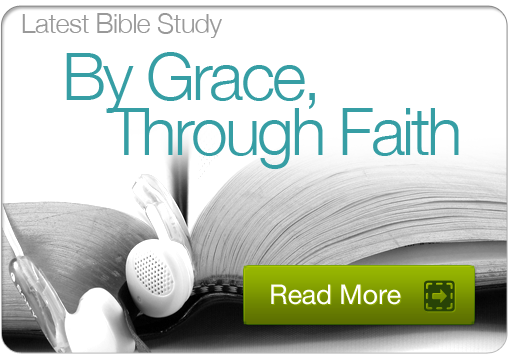
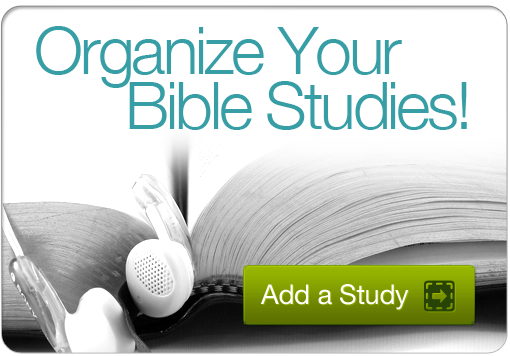
Updating home page graphic.

Changed region(s): [[0.0294, 0.0309, 0.9412, 0.4944], [0.5, 0.7725, 0.8235, 0.8652], [0.5294, 0.0618, 0.5588, 0.0927]]

diff --git a/ASD/index.html b/ASD/index.html
@@ -35,14 +35,16 @@
 			<img src="images/logo.png" id="logo" width="75%" border="0"><h1 class="hidden"></h1>
 		</div>
 		<div data-role="content" id="content">
+
 			<div id="feature">
-				<a href="#featureLesson" data-transition="slide"><img src="images/feature.png" width="100%"></a>
+				<a href="additem.html" data-transition="slide"><img src="images/feature.png" width="100%"></a>
 			</div>
+
 			
-			<ul data-role="listview" data-inset="true" data-filter="true" data-theme="c" data-dividertheme="f"> 
+			<ul data-role="listview" data-inset="true" data-theme="c" data-dividertheme="f"> 
 				<li data-role="list-divider">Adults</li>
 				<li>
-					<a href="lessons.html?cat=Adults" rel="external">
+					<a href="lessons.html?cat=Adults" rel="external" data-transition="slide">
 						<img src="images/Adults.png"  />
 						<h3>Adults</h3>
 						<p>Studies for Adult audiences.</p>
@@ -83,10 +85,6 @@
 					</a>
 				</li>
 			</ul>
-			<div >
-				<a href="additem.html"  id="addNew" data-icon="plus" data-role="button" data-theme="f"  rel="external">Add New Lesson</a>
-			</div>
-
 		</div>
 		<div data-role="footer" data-position="fixed" data-theme="c">
 			<div data-role="navbar">
